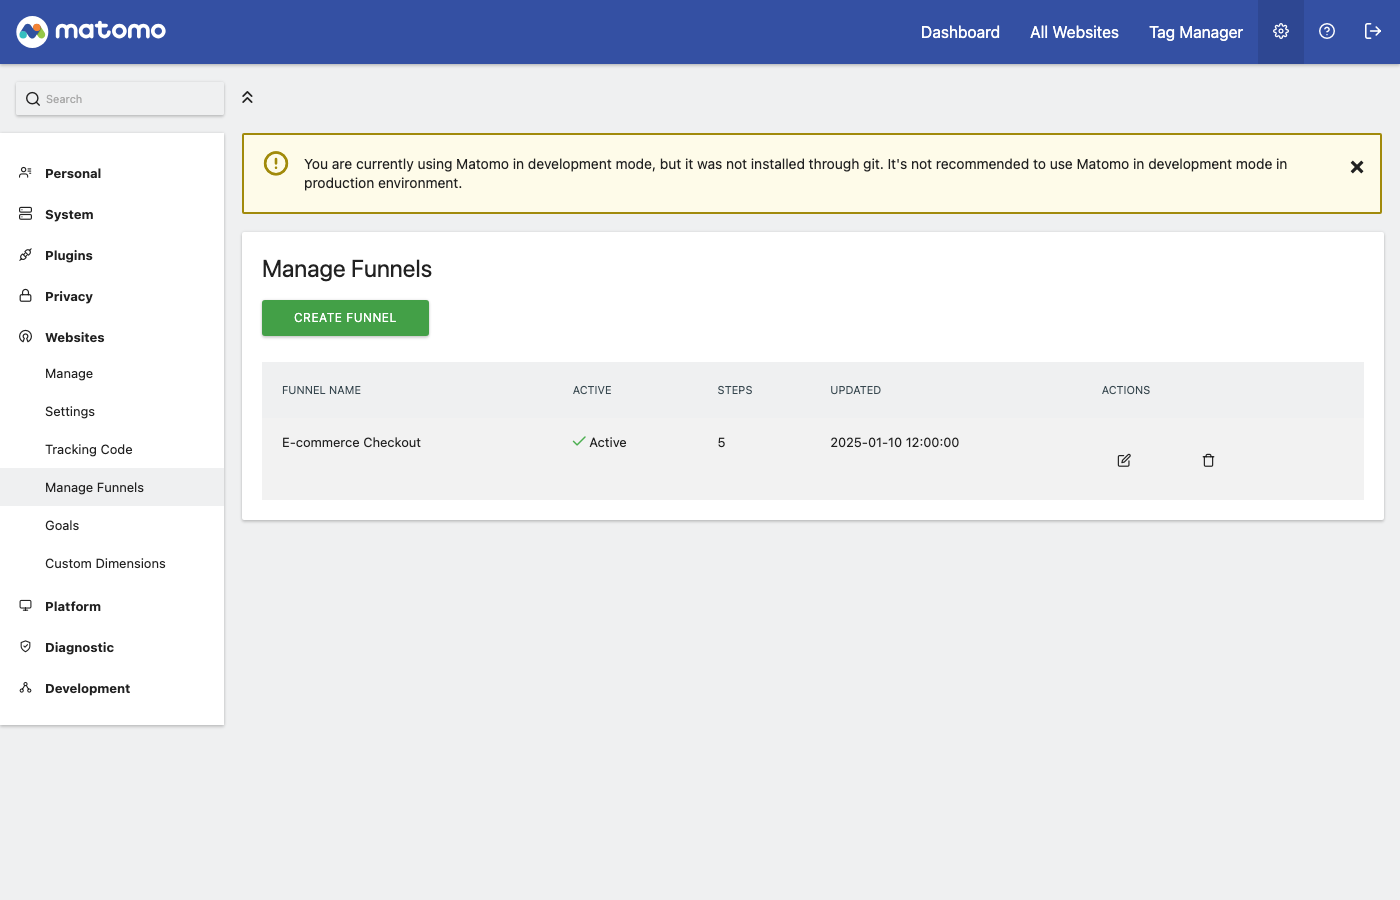
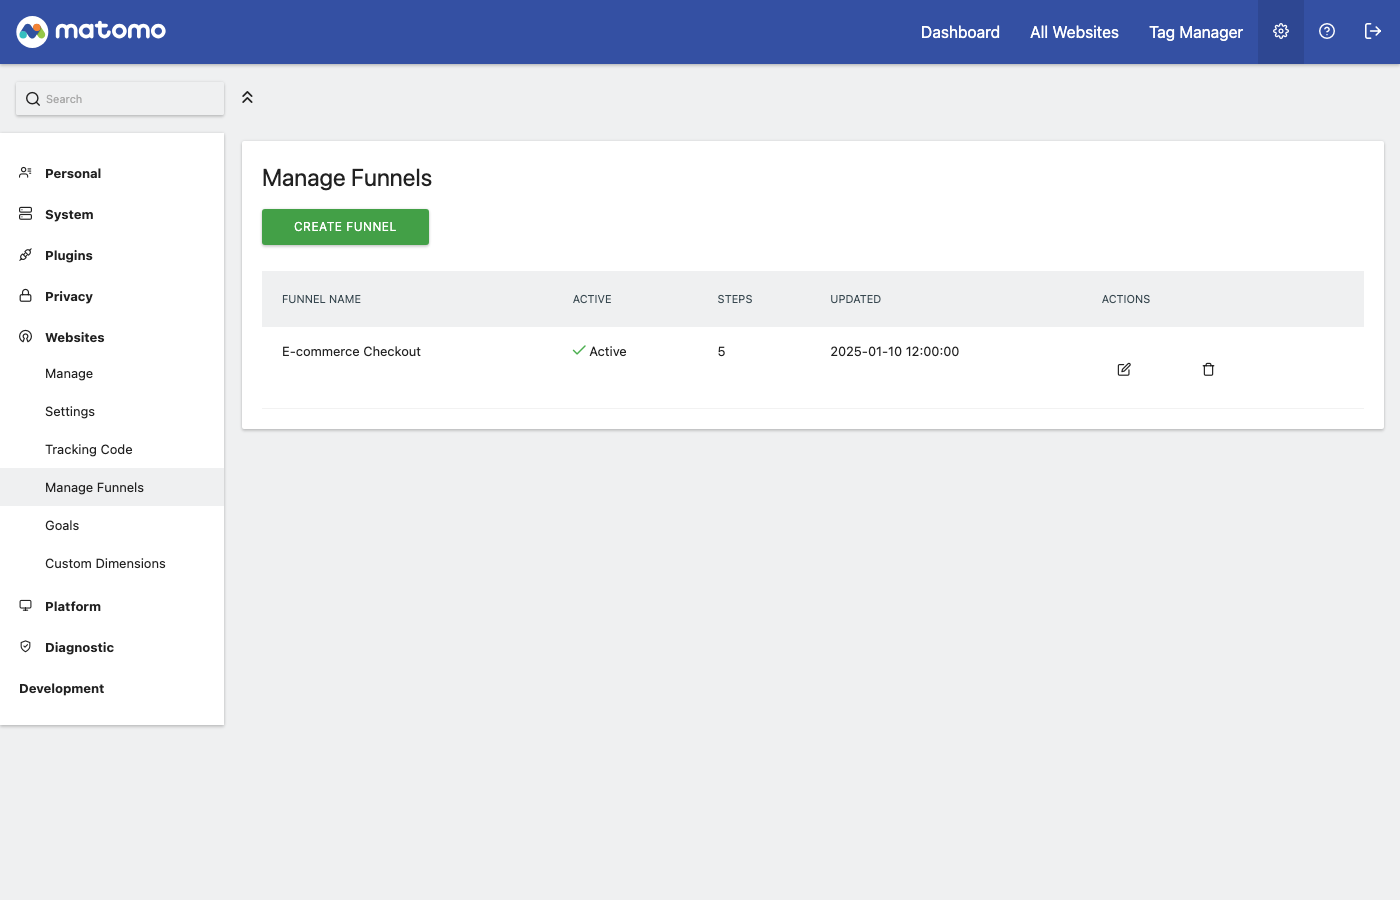
docs: update screenshots with realistic funnel data (10k entries)
- Fixed seed script to use gzcompress (Matomo's blob storage format)
- Updated funnel data: 10,247 entries with realistic drop-off progression
  - Step 1 (Homepage): 10,247 → 7,534 (73.5% proceed)
  - Step 2 (Product Page): 7,534 → 4,218 (56.0% proceed)
  - Step 3 (Add to Cart): 4,218 → 2,847 (67.5% proceed)
  - Step 4 (Checkout): 2,847 → 1,923 (67.5% proceed)
  - Final conversion rate: 18.8%
- Added CSS injection to hide development mode warning in screenshots

diff --git a/e2e/take-screenshots.js b/e2e/take-screenshots.js
@@ -12,7 +12,39 @@ if (!fs.existsSync(SCREENSHOTS_DIR)) {
   fs.mkdirSync(SCREENSHOTS_DIR, { recursive: true });
 }
 
+async function hideDevWarnings(page) {
+  // Hide development mode warning and other notification banners
+  await page.evaluate(() => {
+    const style = document.createElement('style');
+    style.textContent = `
+      /* Hide development mode warning */
+      .alert-warning, .notification-warning, .development-notice,
+      [class*="development"], [class*="warning-banner"],
+      .system-notification, .matomo-notification,
+      .alert.alert-warning, .notification.system,
+      #development_notice, #developmentNotice,
+      .notification-group, .ui-notification {
+        display: none !important;
+      }
+    `;
+    document.head.appendChild(style);
+
+    // Also remove elements directly if they exist
+    const selectors = [
+      '.alert-warning', '.notification-warning', '.development-notice',
+      '.system-notification', '.notification-group', '.ui-notification'
+    ];
+    selectors.forEach(sel => {
+      document.querySelectorAll(sel).forEach(el => el.remove());
+    });
+  });
+}
+
 async function verifyScreenshot(page, filename, expectedContent, forbiddenContent = ['error occurred', 'sign in to continue', 'forgot your password']) {
+  // Hide dev warnings before screenshot
+  await hideDevWarnings(page);
+  await page.waitForTimeout(200);
+
   const filepath = path.join(SCREENSHOTS_DIR, filename);
   await page.screenshot({ path: filepath, fullPage: false });
 

diff --git a/scripts/seed-funnel-archive.php b/scripts/seed-funnel-archive.php
@@ -5,10 +5,17 @@
  *   php /var/www/html/plugins/FunnelInsights/scripts/seed-funnel-archive.php
  */
 
-// Bootstrap Matomo
+// Bootstrap Matomo using Environment
 define('PIWIK_INCLUDE_PATH', '/var/www/html');
-define('PIWIK_USER_PATH', PIWIK_INCLUDE_PATH);
-require_once PIWIK_INCLUDE_PATH . '/core/bootstrap.php';
+define('PIWIK_USER_PATH', '/var/www/html');
+define('PIWIK_DOCUMENT_ROOT', '/var/www/html');
+
+require_once PIWIK_INCLUDE_PATH . '/vendor/autoload.php';
+
+$environment = new \Piwik\Application\Environment('cli');
+$environment->init();
+
+\Piwik\Access::getInstance()->setSuperUserAccess(true);
 
 use Piwik\Db;
 use Piwik\Common;
@@ -20,79 +27,91 @@ echo "Seeding funnel archive data...\n";
 
 $idSite = 1;
 $idFunnel = 1;
-$yesterday = date('Y-m-d', strtotime('-1 day'));
+// Use fixed date that matches take-screenshots.js
+$targetDate = '2026-01-09';
 
 // Create realistic funnel step data (E-commerce checkout)
+// Starting with ~10,000 visits, realistic drop-off at each step
+// Step 1: Homepage - 10,247 entries
+// Step 2: Product Page - 7,534 (26.5% drop-off)
+// Step 3: Add to Cart - 4,218 (44% drop-off)
+// Step 4: Checkout - 2,847 (32.5% drop-off)
+// Step 5: Order Complete - 1,923 (32.4% drop-off) = 18.8% overall conversion
 $funnelSteps = [
     [
-        'visits' => 1247,
-        'entries' => 1247,
-        'exits' => 189,
-        'proceeded' => 1058,
+        'visits' => 10247,
+        'entries' => 10247,
+        'exits' => 2713,
+        'proceeded' => 7534,
         'skips' => 0,
-        'time_spent' => 45230,
-        'time_hits' => 1058,
+        'time_spent' => 452300,
+        'time_hits' => 7534,
         'dropoff_urls' => json_encode([
-            '/about' => 45,
-            '/contact' => 32,
-            '/blog' => 28,
-            '/faq' => 24,
-            '/search' => 20
+            '/about' => 542,
+            '/contact' => 421,
+            '/blog' => 387,
+            '/faq' => 312,
+            '/search' => 289,
+            '/careers' => 198,
+            '/terms' => 156
         ])
     ],
     [
-        'visits' => 1058,
+        'visits' => 7534,
         'entries' => 0,
-        'exits' => 247,
-        'proceeded' => 811,
+        'exits' => 3316,
+        'proceeded' => 4218,
         'skips' => 0,
-        'time_spent' => 89420,
-        'time_hits' => 811,
+        'time_spent' => 894200,
+        'time_hits' => 4218,
         'dropoff_urls' => json_encode([
-            '/' => 62,
-            '/products' => 48,
-            '/category' => 37,
-            '/search' => 30,
-            '/compare' => 25
+            '/' => 812,
+            '/products' => 623,
+            '/category' => 489,
+            '/search' => 412,
+            '/compare' => 347,
+            '/wishlist' => 298
         ])
     ],
     [
-        'visits' => 811,
+        'visits' => 4218,
         'entries' => 0,
-        'exits' => 156,
-        'proceeded' => 655,
+        'exits' => 1371,
+        'proceeded' => 2847,
         'skips' => 0,
-        'time_spent' => 67890,
-        'time_hits' => 655,
+        'time_spent' => 678900,
+        'time_hits' => 2847,
         'dropoff_urls' => json_encode([
-            '/product/other' => 42,
-            '/wishlist' => 35,
-            '/compare' => 28,
-            '/' => 22,
-            '/products' => 19
+            '/product/other' => 312,
+            '/wishlist' => 287,
+            '/compare' => 234,
+            '/' => 198,
+            '/products' => 167,
+            '/shipping-info' => 123
         ])
     ],
     [
-        'visits' => 655,
+        'visits' => 2847,
         'entries' => 0,
-        'exits' => 187,
-        'proceeded' => 468,
+        'exits' => 924,
+        'proceeded' => 1923,
         'skips' => 0,
-        'time_spent' => 123450,
-        'time_hits' => 468,
+        'time_spent' => 1234500,
+        'time_hits' => 1923,
         'dropoff_urls' => json_encode([
-            '/cart' => 52,
-            '/shipping-info' => 41,
-            '/payment-methods' => 33,
-            '/' => 26,
-            '/contact' => 20
+            '/cart' => 245,
+            '/shipping-info' => 198,
+            '/payment-methods' => 167,
+            '/' => 134,
+            '/contact' => 98,
+            '/faq' => 82
         ])
     ],
     [
-        'visits' => 468,
+        'visits' => 1923,
         'entries' => 0,
         'exits' => 0,
-        'proceeded' => 468,
+        'proceeded' => 1923,
         'skips' => 0,
         'time_spent' => 0,
         'time_hits' => 0,
@@ -108,42 +127,42 @@ foreach ($funnelSteps as $stepData) {
     $dataTable->addRow($row);
 }
 
-// Serialize
+// Serialize - Matomo stores blobs gzcompressed
 $serialized = $dataTable->getSerialized();
-$blobData = reset($serialized);
+$blobData = gzcompress(reset($serialized));
 
 // Get archive ID
-$archiveTableNumeric = Common::prefixTable('archive_numeric_' . date('Y_m', strtotime($yesterday)));
-$archiveTableBlob = Common::prefixTable('archive_blob_' . date('Y_m', strtotime($yesterday)));
+$yearMonth = date('Y_m', strtotime($targetDate));
+$archiveTableNumeric = Common::prefixTable('archive_numeric_' . $yearMonth);
+$archiveTableBlob = Common::prefixTable('archive_blob_' . $yearMonth);
 
-// Create tables if needed
-$yearMonth = date('Y_m', strtotime($yesterday));
-Db::exec("CREATE TABLE IF NOT EXISTS " . Common::prefixTable("archive_blob_$yearMonth") . " LIKE " . Common::prefixTable("archive_blob_2026_01"));
-Db::exec("CREATE TABLE IF NOT EXISTS " . Common::prefixTable("archive_numeric_$yearMonth") . " LIKE " . Common::prefixTable("archive_numeric_2026_01"));
+// Tables should already exist for 2026_01
 
-// Find or create archive ID
-$idArchive = Db::fetchOne("SELECT MAX(idarchive) FROM $archiveTableNumeric WHERE idsite = ? AND date1 = ?", [$idSite, $yesterday]);
+// Find the archive ID that has the 'done' flag for this date
+$idArchive = Db::fetchOne("SELECT idarchive FROM $archiveTableNumeric WHERE idsite = ? AND date1 = ? AND name = 'done' ORDER BY idarchive DESC LIMIT 1", [$idSite, $targetDate]);
 if (!$idArchive) {
-    $idArchive = 1;
+    // No existing archive, create new one
+    $idArchive = Db::fetchOne("SELECT COALESCE(MAX(idarchive), 0) + 1 FROM $archiveTableNumeric");
     // Insert done flag
-    Db::exec("INSERT INTO $archiveTableNumeric (idarchive, name, idsite, date1, date2, period, ts_archived, value)
+    Db::get()->query("INSERT INTO $archiveTableNumeric (idarchive, name, idsite, date1, date2, period, ts_archived, value)
               VALUES (?, 'done', ?, ?, ?, 1, NOW(), 1)
               ON DUPLICATE KEY UPDATE value = 1",
-              [$idArchive, $idSite, $yesterday, $yesterday]);
+              [$idArchive, $idSite, $targetDate, $targetDate]);
 }
+echo "Using archive ID: $idArchive\n";
 
 // Insert blob data
 $recordName = 'FunnelInsights_Funnel_' . $idFunnel;
-Db::exec("INSERT INTO $archiveTableBlob (idarchive, name, idsite, date1, date2, period, ts_archived, value)
+Db::get()->query("INSERT INTO $archiveTableBlob (idarchive, name, idsite, date1, date2, period, ts_archived, value)
           VALUES (?, ?, ?, ?, ?, 1, NOW(), ?)
           ON DUPLICATE KEY UPDATE value = VALUES(value), ts_archived = NOW()",
-          [$idArchive, $recordName, $idSite, $yesterday, $yesterday, $blobData]);
+          [$idArchive, $recordName, $idSite, $targetDate, $targetDate, $blobData]);
 
 echo "SUCCESS: Inserted funnel archive data\n";
 echo "  Archive ID: $idArchive\n";
-echo "  Date: $yesterday\n";
+echo "  Date: $targetDate\n";
 echo "  Record: $recordName\n";
 echo "  Steps: " . count($funnelSteps) . "\n";
-echo "  Total Entries: 1247\n";
-echo "  Conversions: 468\n";
-echo "  Conversion Rate: 37.5%\n";
+echo "  Total Entries: 10,247\n";
+echo "  Conversions: 1,923\n";
+echo "  Conversion Rate: 18.8%\n";
